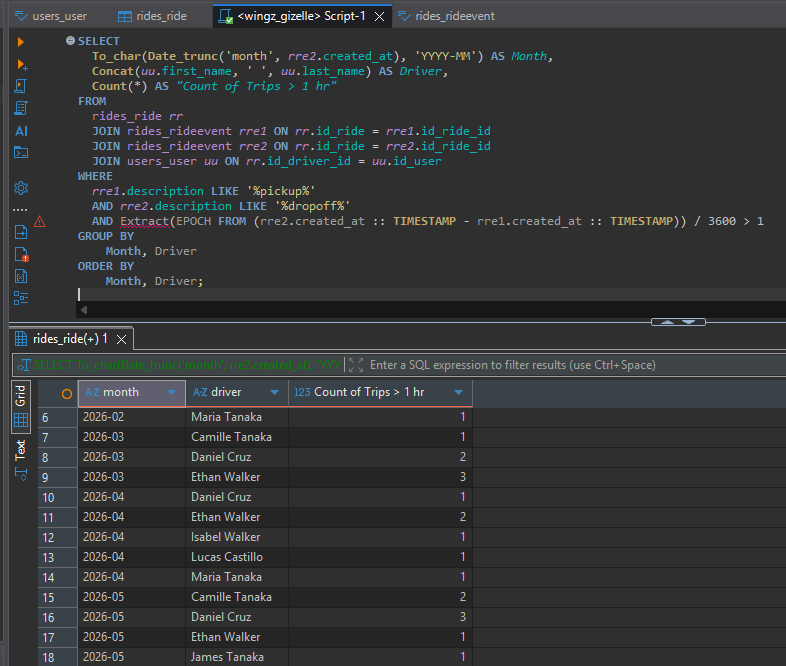
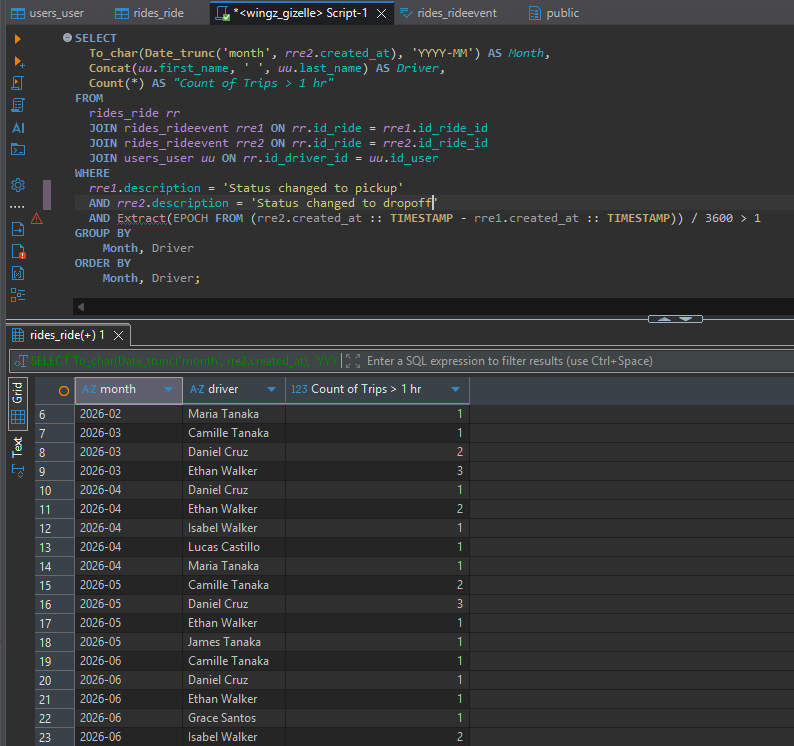
Remove ride_events from Ride API and update prefetch of todays_ride_events, update README.md as well with the changes

diff --git a/rides/views.py b/rides/views.py
@@ -1,3 +1,6 @@
+from datetime import timedelta
+from django.db.models import Prefetch
+from django.utils import timezone
 from django_filters.rest_framework import DjangoFilterBackend
 from drf_spectacular.utils import extend_schema, extend_schema_view
 from rest_framework import viewsets
@@ -39,15 +42,30 @@ from rides.serializers import RideSerializer, RideEventSerializer
 )
 class RideViewSet(viewsets.ModelViewSet):
     queryset = (
-        Ride.objects.all()
-        .select_related("id_rider", "id_driver")
-        .prefetch_related("ride_events")
-        .order_by("-id_ride")
+        Ride.objects.all().select_related("id_rider", "id_driver").order_by("-id_ride")
     )
     serializer_class = RideSerializer
     filter_backends = [DjangoFilterBackend, DistanceOrderingFilter]
     filterset_class = RideFilter
     ordering_fields = ["pickup_time", "distance"]
+
+    def get_queryset(self):
+        last_24h = timezone.now() - timedelta(hours=24)
+        return (
+            super()
+            .get_queryset()
+            .prefetch_related(
+                Prefetch(
+                    "ride_events",
+                    queryset=RideEvent.objects.filter(created_at__gte=last_24h),
+                    to_attr="todays_ride_events",
+                )
+            )
+        )
+
+    def perform_create(self, serializer):
+        ride = serializer.save()
+        serializer.instance = self.get_queryset().get(pk=ride.pk)
 
 
 @extend_schema(tags=["RideEvent"])

diff --git a/rides/serializers.py b/rides/serializers.py
@@ -1,6 +1,3 @@
-from datetime import timedelta
-from django.utils import timezone
-from drf_spectacular.utils import extend_schema_field
 from rest_framework import serializers
 
 from rides.models import Ride, RideEvent
@@ -17,16 +14,7 @@ class RideEventSerializer(serializers.ModelSerializer):
 class RideSerializer(serializers.ModelSerializer):
     rider = UserSerializer(source="id_rider", read_only=True)
     driver = UserSerializer(source="id_driver", read_only=True)
-    ride_events = RideEventSerializer(many=True, read_only=True)
-    todays_ride_events = serializers.SerializerMethodField()
-
-    @extend_schema_field(RideEventSerializer(many=True))
-    def get_todays_ride_events(self, obj):
-        # Even though the field name is today, we're actually getting the last 24 hours
-        # as specified in the requirements.
-        last_24h = timezone.now() - timedelta(hours=24)
-        todays_events = [e for e in obj.ride_events.all() if e.created_at >= last_24h]
-        return RideEventSerializer(todays_events, many=True).data
+    todays_ride_events = RideEventSerializer(many=True, read_only=True)
 
     class Meta:
         model = Ride
@@ -42,7 +30,6 @@ class RideSerializer(serializers.ModelSerializer):
             "dropoff_latitude",
             "dropoff_longitude",
             "pickup_time",
-            "ride_events",
             "todays_ride_events",
         ]
         read_only_fields = ["id_ride"]

diff --git a/README.md b/README.md
@@ -135,36 +135,49 @@ A ride links a rider and a driver, has a status (`en-route`, `pickup`, or `dropo
 When creating or updating a ride, pass the users' IDs as `id_rider` and `id_driver`. The responses though will just show them as nested `rider` and `driver` objects instead. 
 This might be better for other apps to directly receive the user information instead of having to call a separate query.
 
-Each ride in a response includes:
-- `ride_events`: all events for the ride.
-- `todays_ride_events`: only the events created in the last 24 hours. This is a rolling 24-hour window as stated in the requirements, not the current calendar date.
+Each ride in a response includes `todays_ride_events` which are the events created in the last 24 hours. This is a rolling 24-hour window as stated in the requirements, not the current calendar date.
 
 > [!NOTE]
-> Based on my understanding of the requirements, each Ride in the response must include its related RideEvents. So that's why I included a `ride_events` with all related events of the Ride.  
-> It was also specified to return an **extra field** called `todays_ride_events`, to only return the events of the last 24 hours.  
-> To be honest, if the point of the `todays_ride_events` was so that the full table is not to be loaded, it really won't be loaded anyway because the Ride API is already paginated.
-> So we only load the Ride Events of the specified Ride. And if the point was because the table grows very large, I would understand only loading the last 24h instead of all the related ride events.  
-> But I still did optimize the queries either way. This will be separately explained under [Performance](#performance).
+> Based on my understanding of the requirements, each Ride in the response must include its related RideEvents.  
+> And it was also specified to return an **extra field** called `todays_ride_events`, to only return the events of the last 24 hours. Originally, I treated this as returning a `ride_events` field with all related events of the Ride, and an extra `todays_ride_events` field that returns the events of the last 24 hours only. And to limit the SQL queries to 2, I prefetched the related events, and just did today's filter in Python.  
+> However, I really don't get the point of having an extra `todays_ride_events` if the reason this was added was so that the full table is not to be loaded. Technically, the Ride Event table really won't be loaded anyway because the Ride API is already paginated, meaning the prefetch of related events is filtered anyway to those specific Ride ids. However, even if not the full table was loaded, it still loads the full related events of each ride. So having this extra field and filter with Python did not add any benefit, and didn't solve the pain of the growing events table.  
+> So I changed it to just remove `ride_events` field altogether and only provide `todays_ride_events`. In a way, this still satisfies the spec where each Ride should include its related RideEvents, just only limited to the last 24h.
 
 Example response for one ride:
 
 ```json
 {
-  "id_ride": 4,
-  "status": "en-route",
-  "rider": {"id_user": 2, "email": "rider@example.com", "role": "rider", "first_name": "", "last_name": "", "phone_number": ""},
-  "driver": {"id_user": 3, "email": "driver@example.com", "role": "driver", "first_name": "", "last_name": "", "phone_number": ""},
-  "pickup_latitude": 14.55,
-  "pickup_longitude": 121.02,
-  "dropoff_latitude": 14.6,
-  "dropoff_longitude": 121.05,
-  "pickup_time": "2026-09-25T08:00:00Z",
-  "ride_events": [
-    {"id_ride_event": 1, "id_ride": 4, "description": "Status changed to pickup", "created_at": "2026-09-25T08:01:00Z"}
-  ],
-  "todays_ride_events": [
-    {"id_ride_event": 1, "id_ride": 4, "description": "Status changed to pickup", "created_at": "2026-09-25T08:01:00Z"}
-  ]
+    "id_ride": 1012,
+    "status": "dropoff",
+    "rider": {
+        "id_user": 29,
+        "email": "rider7@example.com",
+        "role": "rider",
+        "first_name": "Chloe",
+        "last_name": "Castillo",
+        "phone_number": ""
+    },
+    "driver": {
+        "id_user": 30,
+        "email": "driver2@example.com",
+        "role": "driver",
+        "first_name": "Ethan",
+        "last_name": "Walker",
+        "phone_number": ""
+    },
+    "pickup_latitude": 40.785251,
+    "pickup_longitude": -73.974873,
+    "dropoff_latitude": 40.745405,
+    "dropoff_longitude": -73.974719,
+    "pickup_time": "2026-08-11T10:17:40Z",
+    "todays_ride_events": [
+        {
+            "id_ride_event": 2602,
+            "id_ride": 1012,
+            "description": "test today",
+            "created_at": "2026-09-25T12:19:06.646781Z"
+        }
+    ]
 }
 ```
 
@@ -207,9 +220,28 @@ The Ride List API uses a fixed number of queries, no matter however many rides a
 
 1. `COUNT(*)` for pagination.
 2. The rides, with rider and driver joined in (`select_related`).
-3. The ride events for the rides on the current page (`prefetch_related`). This doesn't load the full RideEvent table since we only filter those with the specified Ride id.
+3. The ride events from the last 24 hours, for the rides on the current page only.
 
-To avoid additional queries, we filter `todays_ride_events` in Python from the prefetched events. Specifically using `.all()` so it uses the prefetched and not run another query.
+For the 3rd query, I used `prefetch_related` with a `Prefetch` object, so the 24-hour filter runs in SQL and older events are never loaded:
+
+```python
+Prefetch(
+    "ride_events",
+    queryset=RideEvent.objects.filter(created_at__gte=last_24h),
+    to_attr="todays_ride_events",
+)
+```
+
+- The filter is built in `get_queryset()` so the 24-hour window is based on the time of each request, not the time the server started.
+- `to_attr` stores the result as a list on each ride, which the serializer reads directly as `todays_ride_events`. Rides with no recent events get an empty list.
+- Creating a ride re-fetches it through `get_queryset()` (`perform_create`) so the response also includes `todays_ride_events`.
+
+### Indexes
+
+I have added indexes on the following fields as well since we always filter and sort on it:
+- `pickup_time`
+- `status`
+- RideEvent `id_ride` and `created_at`
 
 ### Ordering 
 
@@ -221,6 +253,14 @@ return qs.annotate(
     distance_km=ExpressionWrapper(r * c, output_field=FloatField())
 )
 ```
+
+#### PostGIS
+
+This sorting with Haversine works and is optimized enough since the computation is done inside the database engine, however, it still scans the whole table (calculate value for every ride, then sort). But for production, there might be a better way to implement this. We could use this Postgres extension for geographic data called PostGIS, and Django supports it. PostGIS has a nearest neighbour operator, so we can sort first the closest rows before even calculating the distance for every row. This way we don't have to calculate distance for the full table. This also still works with pagination.
+
+Trade-off though is the cost. We need PostGIS extension, and other system libraries for it. And then we'll  have to migrate our float coordinates to point fields.
+
+For this exam, I'm using Haversine. But it's worth noting other alternatives like PostGIS.
 
 ### Others
 
@@ -242,8 +282,8 @@ FROM
   JOIN rides_rideevent rre2 ON rr.id_ride = rre2.id_ride_id 
   JOIN users_user uu ON rr.id_driver_id = uu.id_user
 WHERE 
-  rre1.description LIKE '%pickup%'
-  AND rre2.description LIKE '%dropoff%' 
+  rre1.description = 'Status changed to pickup'
+  AND rre2.description = 'Status changed to dropoff'
   AND Extract(EPOCH FROM (rre2.created_at :: TIMESTAMP - rre1.created_at :: TIMESTAMP)) / 3600 > 1 
 GROUP BY
 	Month, Driver 
@@ -257,8 +297,8 @@ Here is the sample of the result of the SQL statement on my local db:
 2. Then join the RideEvent table twice to get separate event records for pickup and dropoff
 3. Then join User table for the driver information
 4. Then we filter records:  
-   4.1 We find from RRE1 where a description has the word "pickup"  
-   4.2 We find from RRE2 where a description has the word "dropoff"  
+   4.1 We find from RRE1 where description = 'Status changed to pickup'
+   4.2 We find from RRE2 where description = 'Status changed to dropoff'
    4.3 And compute the difference of their `created_at` in hour unit, and immediately filter those that have > 1hr  
 5. Since we already have the needed tables, we now select the fields:  
    5.1 We format RRE2's `created_at` to be in YYYY-MM already  
